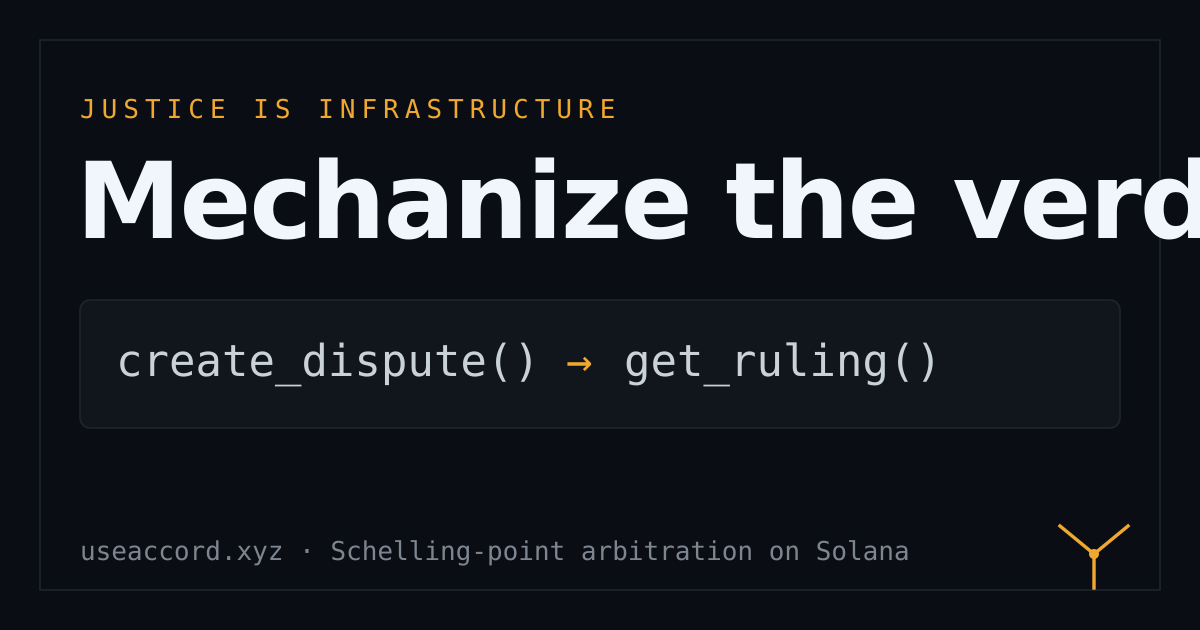
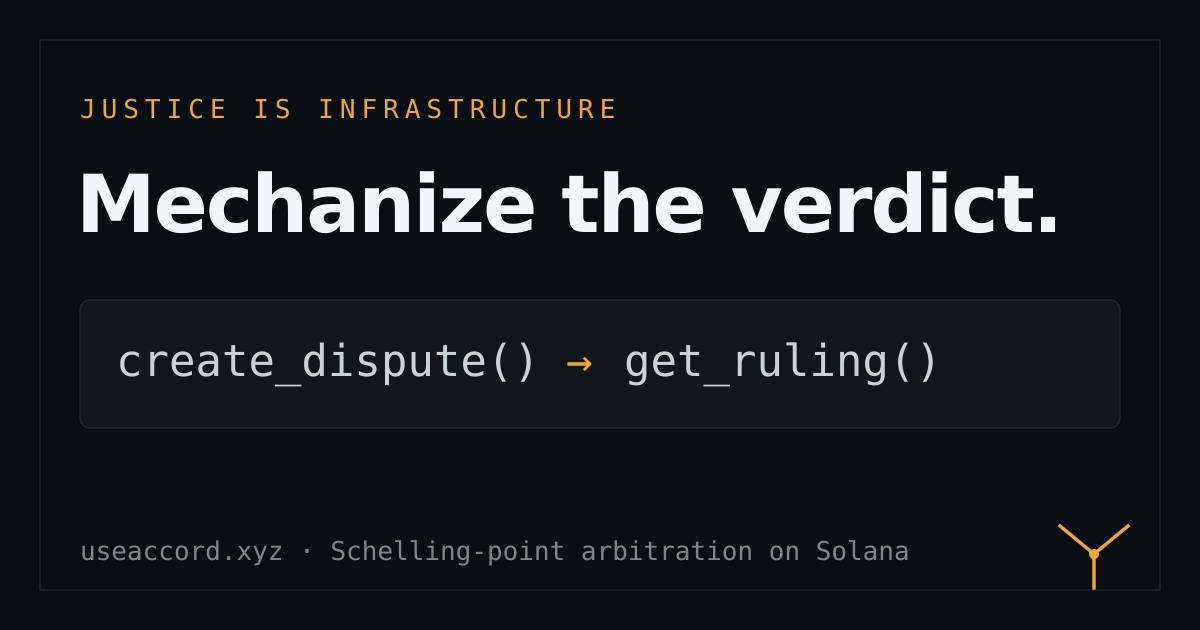
style: social previews and seo improvements

Changed region(s): [[0.0617, 0.2413, 1.0, 0.3921]]

diff --git a/apps/synod/index.html b/apps/synod/index.html
@@ -4,11 +4,33 @@
     <meta charset="UTF-8" />
     <link rel="icon" type="image/svg+xml" href="/favicon.svg" />
     <meta name="viewport" content="width=device-width, initial-scale=1.0" />
+    <meta name="theme-color" content="#0a0e14" />
+    <link rel="canonical" href="https://synod.useaccord.xyz/" />
     <title>Synod — Convene the verdict.</title>
     <meta
       name="description"
       content="Synod — N-party dispute escrow on Solana, adjudicated by Accord. Open a case, name the parties, stake, and let the jury convene."
     />
+
+    <meta property="og:type" content="website" />
+    <meta property="og:title" content="Synod — Convene the verdict." />
+    <meta
+      property="og:description"
+      content="Synod — N-party dispute escrow on Solana, adjudicated by Accord. Open a case, name the parties, stake, and let the jury convene."
+    />
+    <meta property="og:url" content="https://synod.useaccord.xyz/" />
+    <meta property="og:image" content="https://synod.useaccord.xyz/og.png" />
+    <meta property="og:site_name" content="Synod" />
+    <meta name="twitter:card" content="summary_large_image" />
+    <meta name="twitter:title" content="Synod — Convene the verdict." />
+    <meta
+      name="twitter:description"
+      content="Synod — N-party dispute escrow on Solana, adjudicated by Accord. Open a case, name the parties, stake, and let the jury convene."
+    />
+    <meta name="twitter:image" content="https://synod.useaccord.xyz/og.png" />
+    <script type="application/ld+json">
+      {"@context":"https://schema.org","@type":"WebSite","name":"Synod","url":"https://synod.useaccord.xyz/","description":"N-party dispute escrow on Solana, adjudicated by Accord."}
+    </script>
   </head>
   <body>
     <div id="root"></div>

diff --git a/apps/canon/index.html b/apps/canon/index.html
@@ -4,11 +4,33 @@
     <meta charset="UTF-8" />
     <link rel="icon" type="image/svg+xml" href="/favicon.svg" />
     <meta name="viewport" content="width=device-width, initial-scale=1.0" />
+    <meta name="theme-color" content="#0a0e14" />
+    <link rel="canonical" href="https://canon.useaccord.xyz/" />
     <title>Canon — Curated lists, trustless verdicts.</title>
     <meta
       name="description"
       content="Canon — a curated-list registry on Solana, adjudicated by Accord. Browse lists, submit items, challenge fakes."
     />
+
+    <meta property="og:type" content="website" />
+    <meta property="og:title" content="Canon — Curated lists, trustless verdicts." />
+    <meta
+      property="og:description"
+      content="Canon — a curated-list registry on Solana, adjudicated by Accord. Browse lists, submit items, challenge fakes."
+    />
+    <meta property="og:url" content="https://canon.useaccord.xyz/" />
+    <meta property="og:image" content="https://canon.useaccord.xyz/og.png" />
+    <meta property="og:site_name" content="Canon" />
+    <meta name="twitter:card" content="summary_large_image" />
+    <meta name="twitter:title" content="Canon — Curated lists, trustless verdicts." />
+    <meta
+      name="twitter:description"
+      content="Canon — a curated-list registry on Solana, adjudicated by Accord. Browse lists, submit items, challenge fakes."
+    />
+    <meta name="twitter:image" content="https://canon.useaccord.xyz/og.png" />
+    <script type="application/ld+json">
+      {"@context":"https://schema.org","@type":"WebSite","name":"Canon","url":"https://canon.useaccord.xyz/","description":"Curated-list registry on Solana, adjudicated by Accord."}
+    </script>
   </head>
   <body>
     <div id="root"></div>

diff --git a/apps/app/index.html b/apps/app/index.html
@@ -3,11 +3,34 @@
   <head>
     <meta charset="UTF-8" />
     <meta name="viewport" content="width=device-width, initial-scale=1.0" />
+    <meta name="theme-color" content="#0a0e14" />
+    <link rel="icon" type="image/svg+xml" href="/favicon.svg" />
+    <link rel="canonical" href="https://app.useaccord.xyz/" />
     <title>Accord — Mechanize the verdict.</title>
     <meta
       name="description"
       content="Accord — Schelling-point arbitration primitive on Solana. Stake as a juror, file disputes, resolve rulings."
     />
+
+    <meta property="og:type" content="website" />
+    <meta property="og:title" content="Accord — Mechanize the verdict." />
+    <meta
+      property="og:description"
+      content="Accord — Schelling-point arbitration primitive on Solana. Stake as a juror, file disputes, resolve rulings."
+    />
+    <meta property="og:url" content="https://app.useaccord.xyz/" />
+    <meta property="og:image" content="https://app.useaccord.xyz/og.png" />
+    <meta property="og:site_name" content="Accord" />
+    <meta name="twitter:card" content="summary_large_image" />
+    <meta name="twitter:title" content="Accord — Mechanize the verdict." />
+    <meta
+      name="twitter:description"
+      content="Accord — Schelling-point arbitration primitive on Solana. Stake as a juror, file disputes, resolve rulings."
+    />
+    <meta name="twitter:image" content="https://app.useaccord.xyz/og.png" />
+    <script type="application/ld+json">
+      {"@context":"https://schema.org","@type":"WebSite","name":"Accord App","url":"https://app.useaccord.xyz/","description":"Juror console for Accord — stake, draw, vote. Schelling-point arbitration on Solana."}
+    </script>
   </head>
   <body>
     <div id="root"></div>

diff --git a/apps/hanse/index.html b/apps/hanse/index.html
@@ -19,13 +19,15 @@
       content="Run a mutual, not a company. Member-funded cover pools on Solana: recurring contributions, jury-decided payouts, surplus that flows back."
     />
     <meta property="og:url" content="https://hanse.useaccord.xyz/" />
+    <meta property="og:image" content="https://hanse.useaccord.xyz/og.png" />
     <meta property="og:site_name" content="Hanse" />
-    <meta name="twitter:card" content="summary" />
+    <meta name="twitter:card" content="summary_large_image" />
     <meta name="twitter:title" content="Hanse — The protocol for mutuals." />
     <meta
       name="twitter:description"
       content="Run a mutual, not a company. Member-funded cover pools on Solana: recurring contributions, jury-decided payouts, surplus that flows back."
     />
+    <meta name="twitter:image" content="https://hanse.useaccord.xyz/og.png" />
     <script type="application/ld+json">
       {"@context":"https://schema.org","@type":"WebSite","name":"Hanse","url":"https://hanse.useaccord.xyz/","description":"The protocol for mutuals — member-funded cover pools on Solana."}
     </script>
